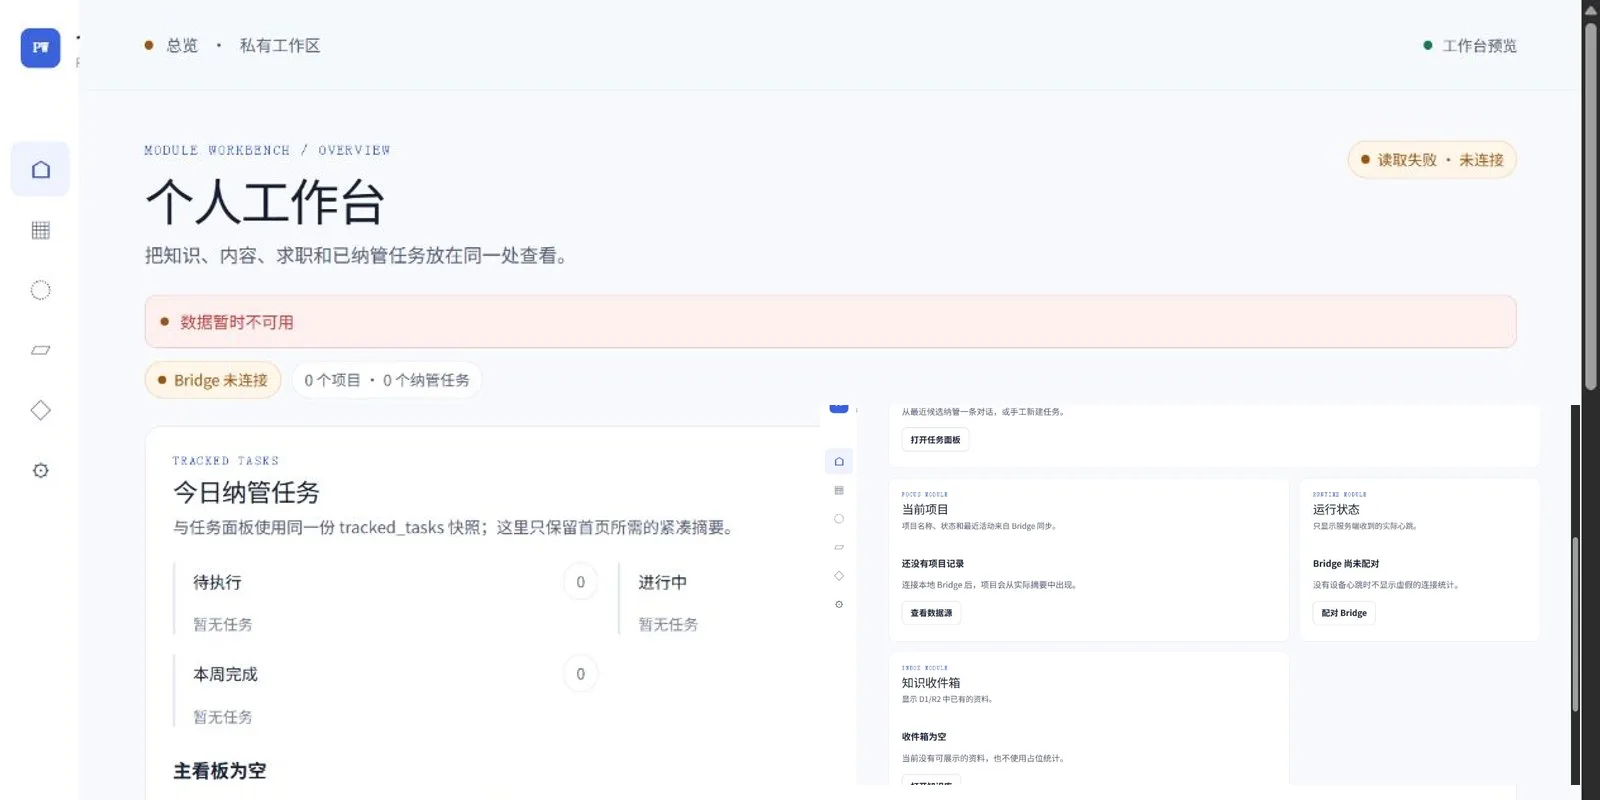
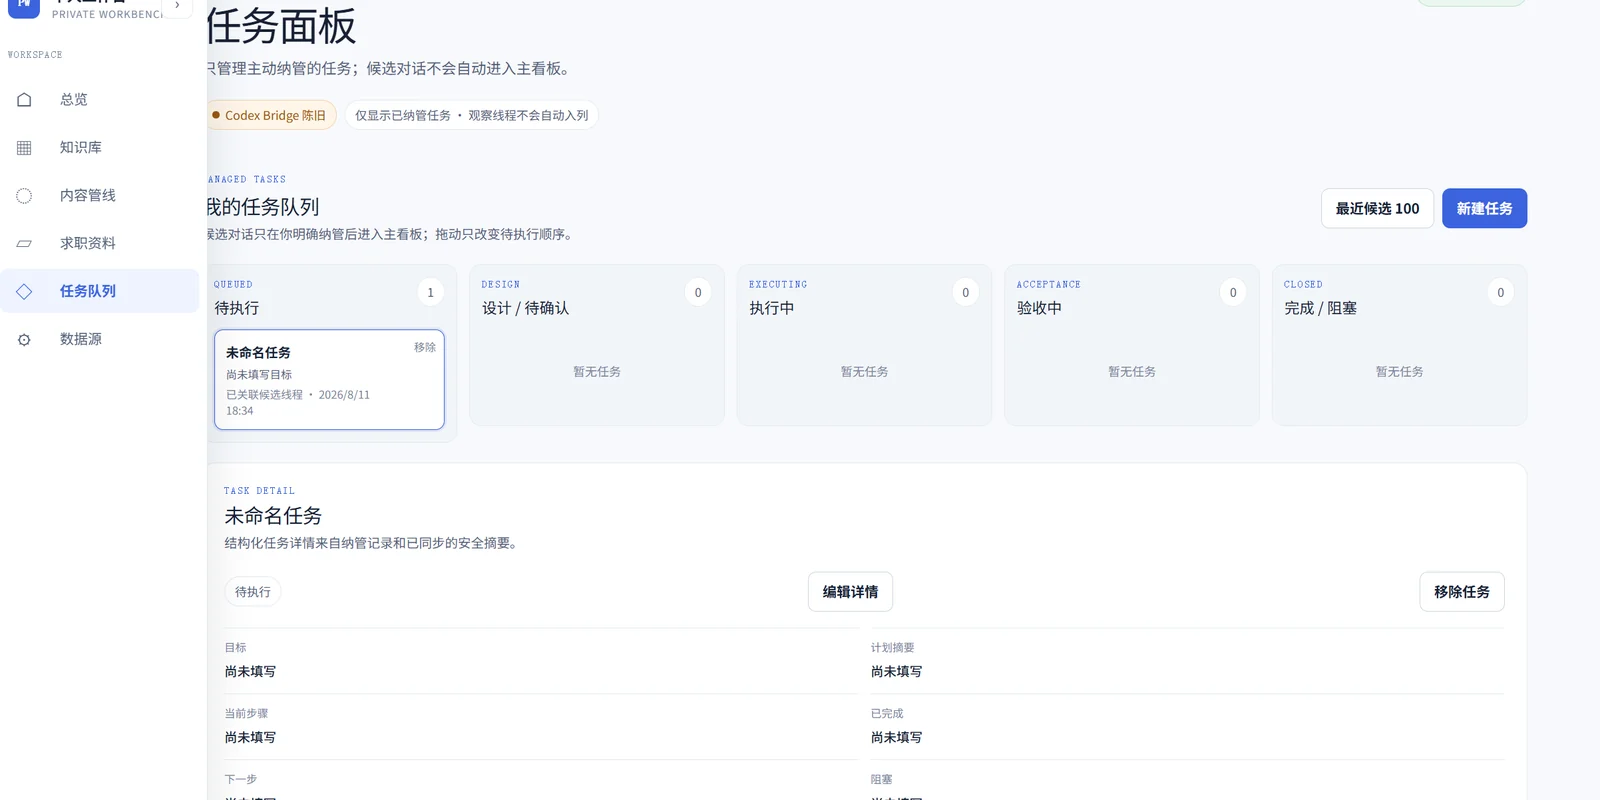
Update personal workbench preview

diff --git a/index.html b/index.html
@@ -112,7 +112,7 @@
             <div class="skills-grid" data-skill-list></div>
             <div class="workbench-feature">
               <figure class="workbench-shot">
-                <img src="assets/workbench-home.webp" alt="真实个人 AI 工作台首页，展示总览、纳管任务、当前项目与知识收件箱" loading="lazy" decoding="async" width="1600" height="800">
+                <img src="assets/workbench-home.webp?v=20260814-taskboard" alt="个人工作台任务面板，展示待执行、设计、执行、验收与完成任务" loading="lazy" decoding="async" width="1600" height="800">
               </figure>
               <div class="workbench-copy">
                 <p class="about-label" data-copy="workbenchLabel">Personal AI Workbench</p>
